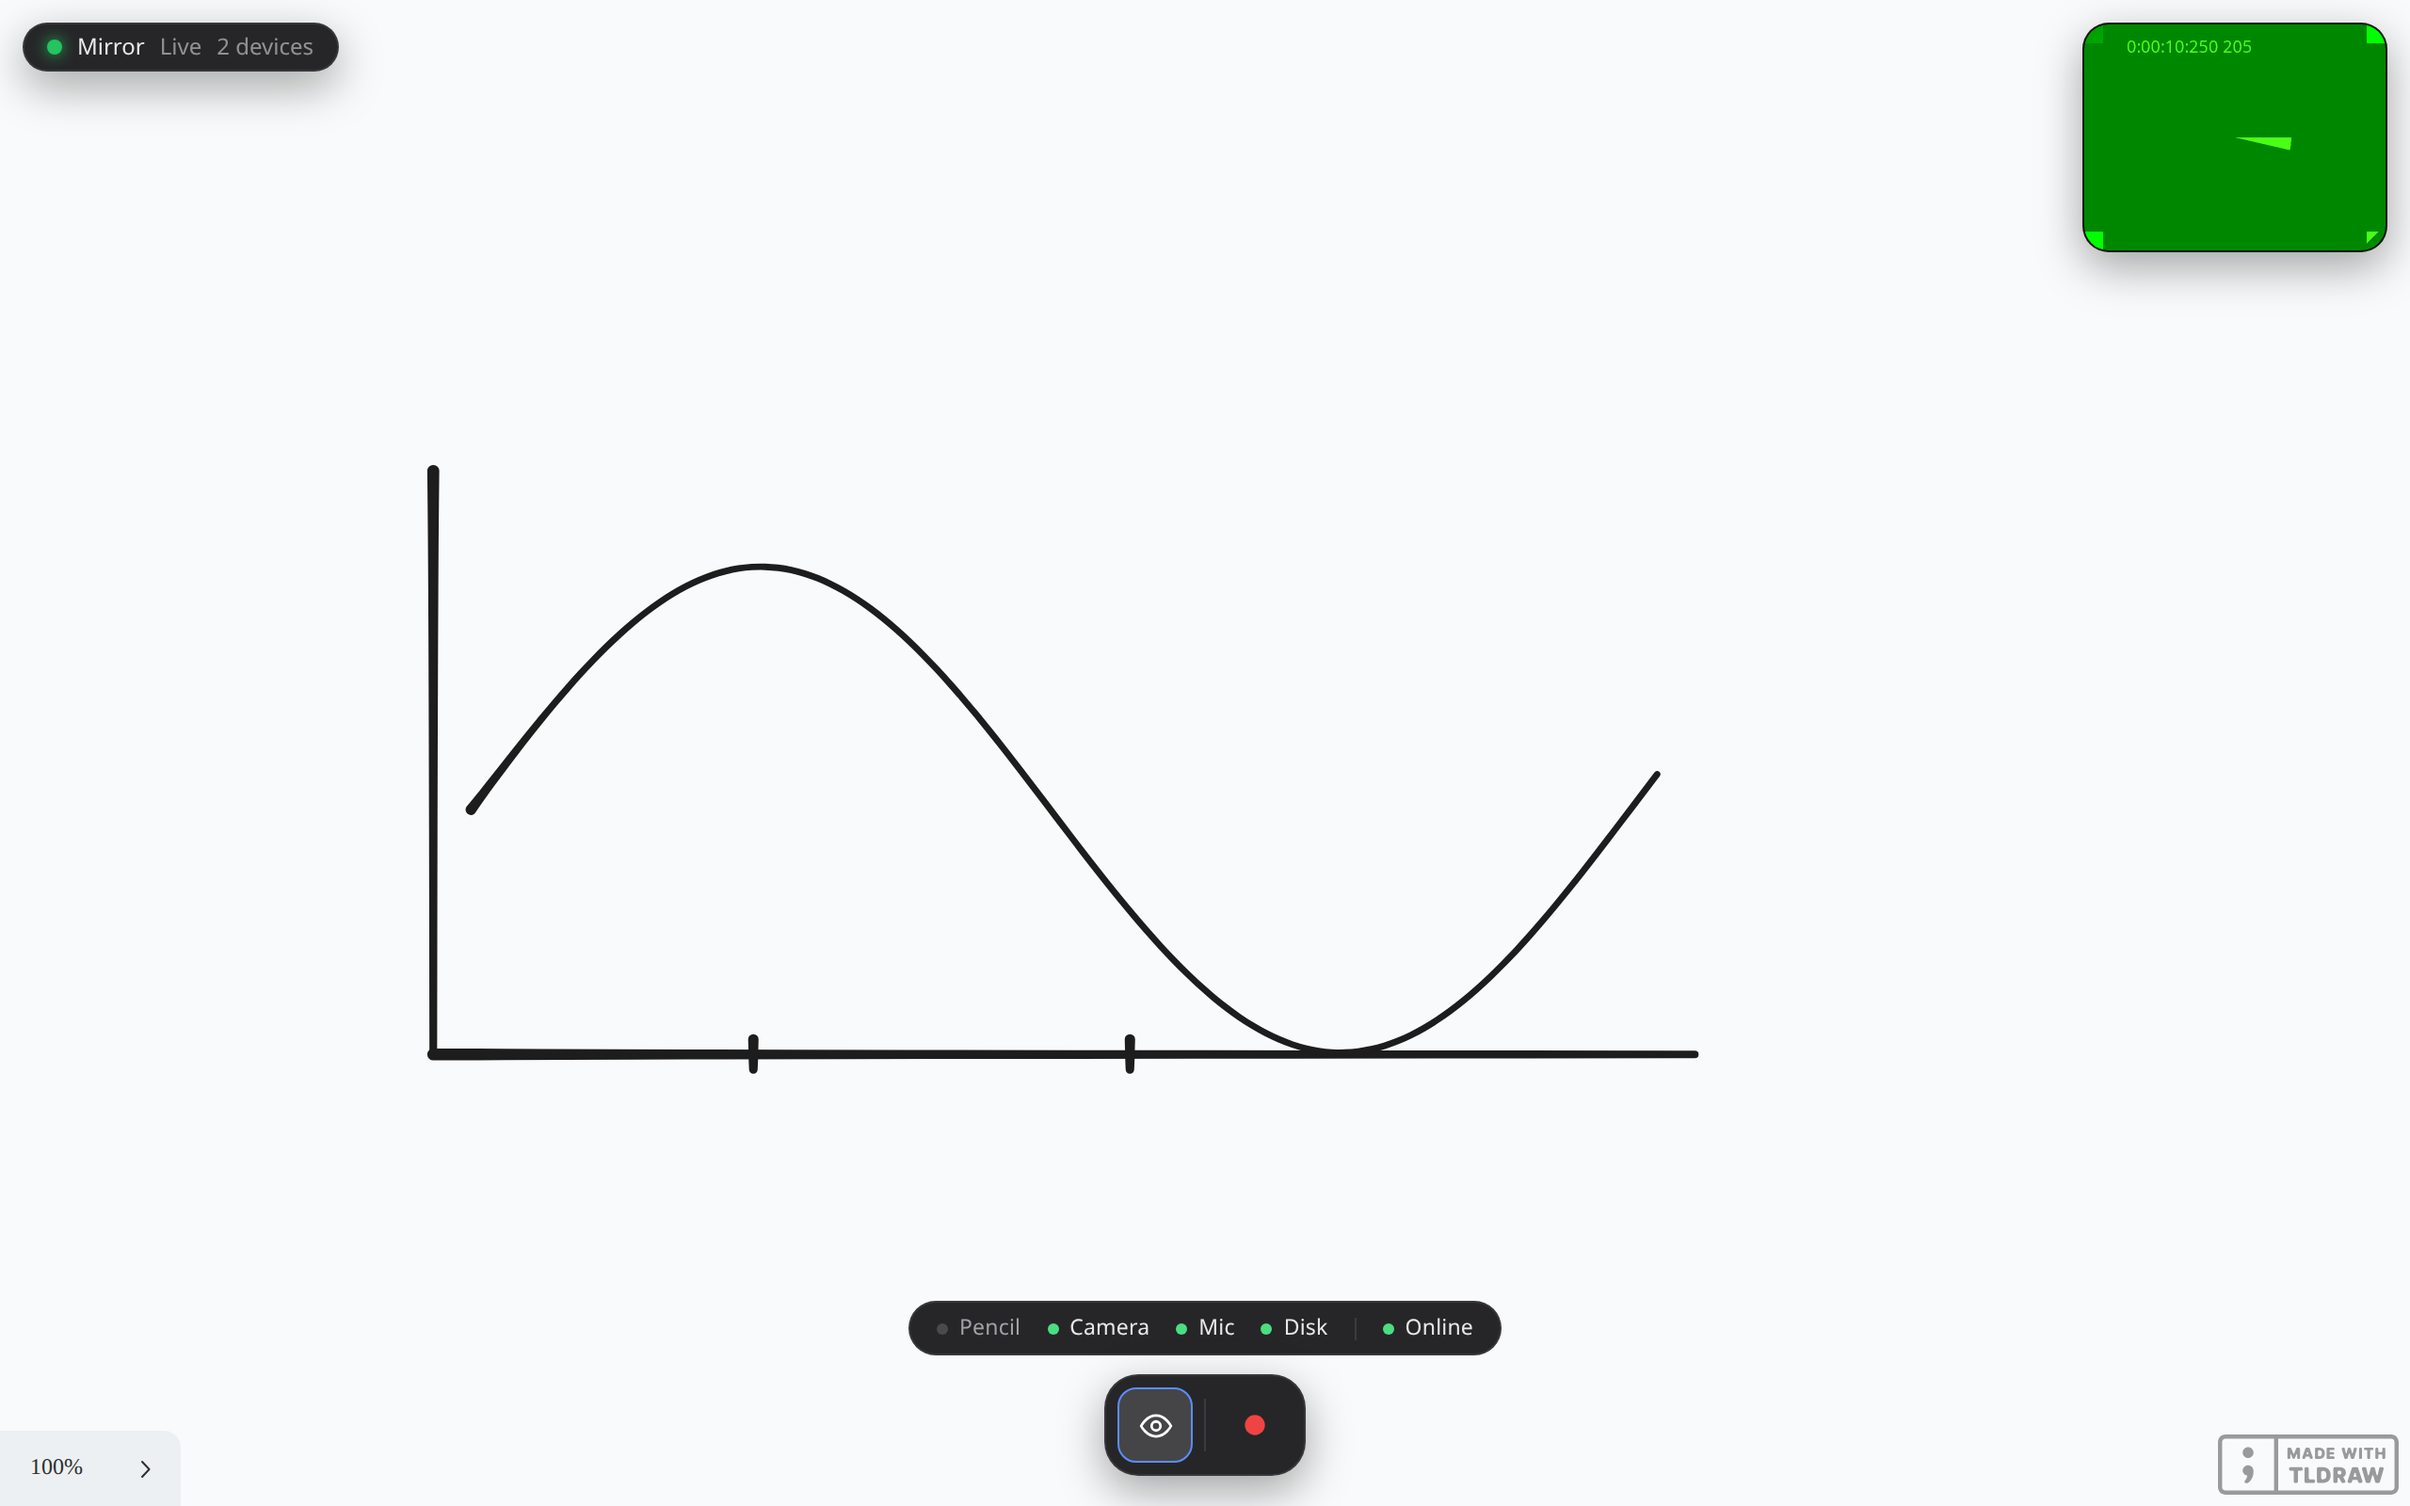
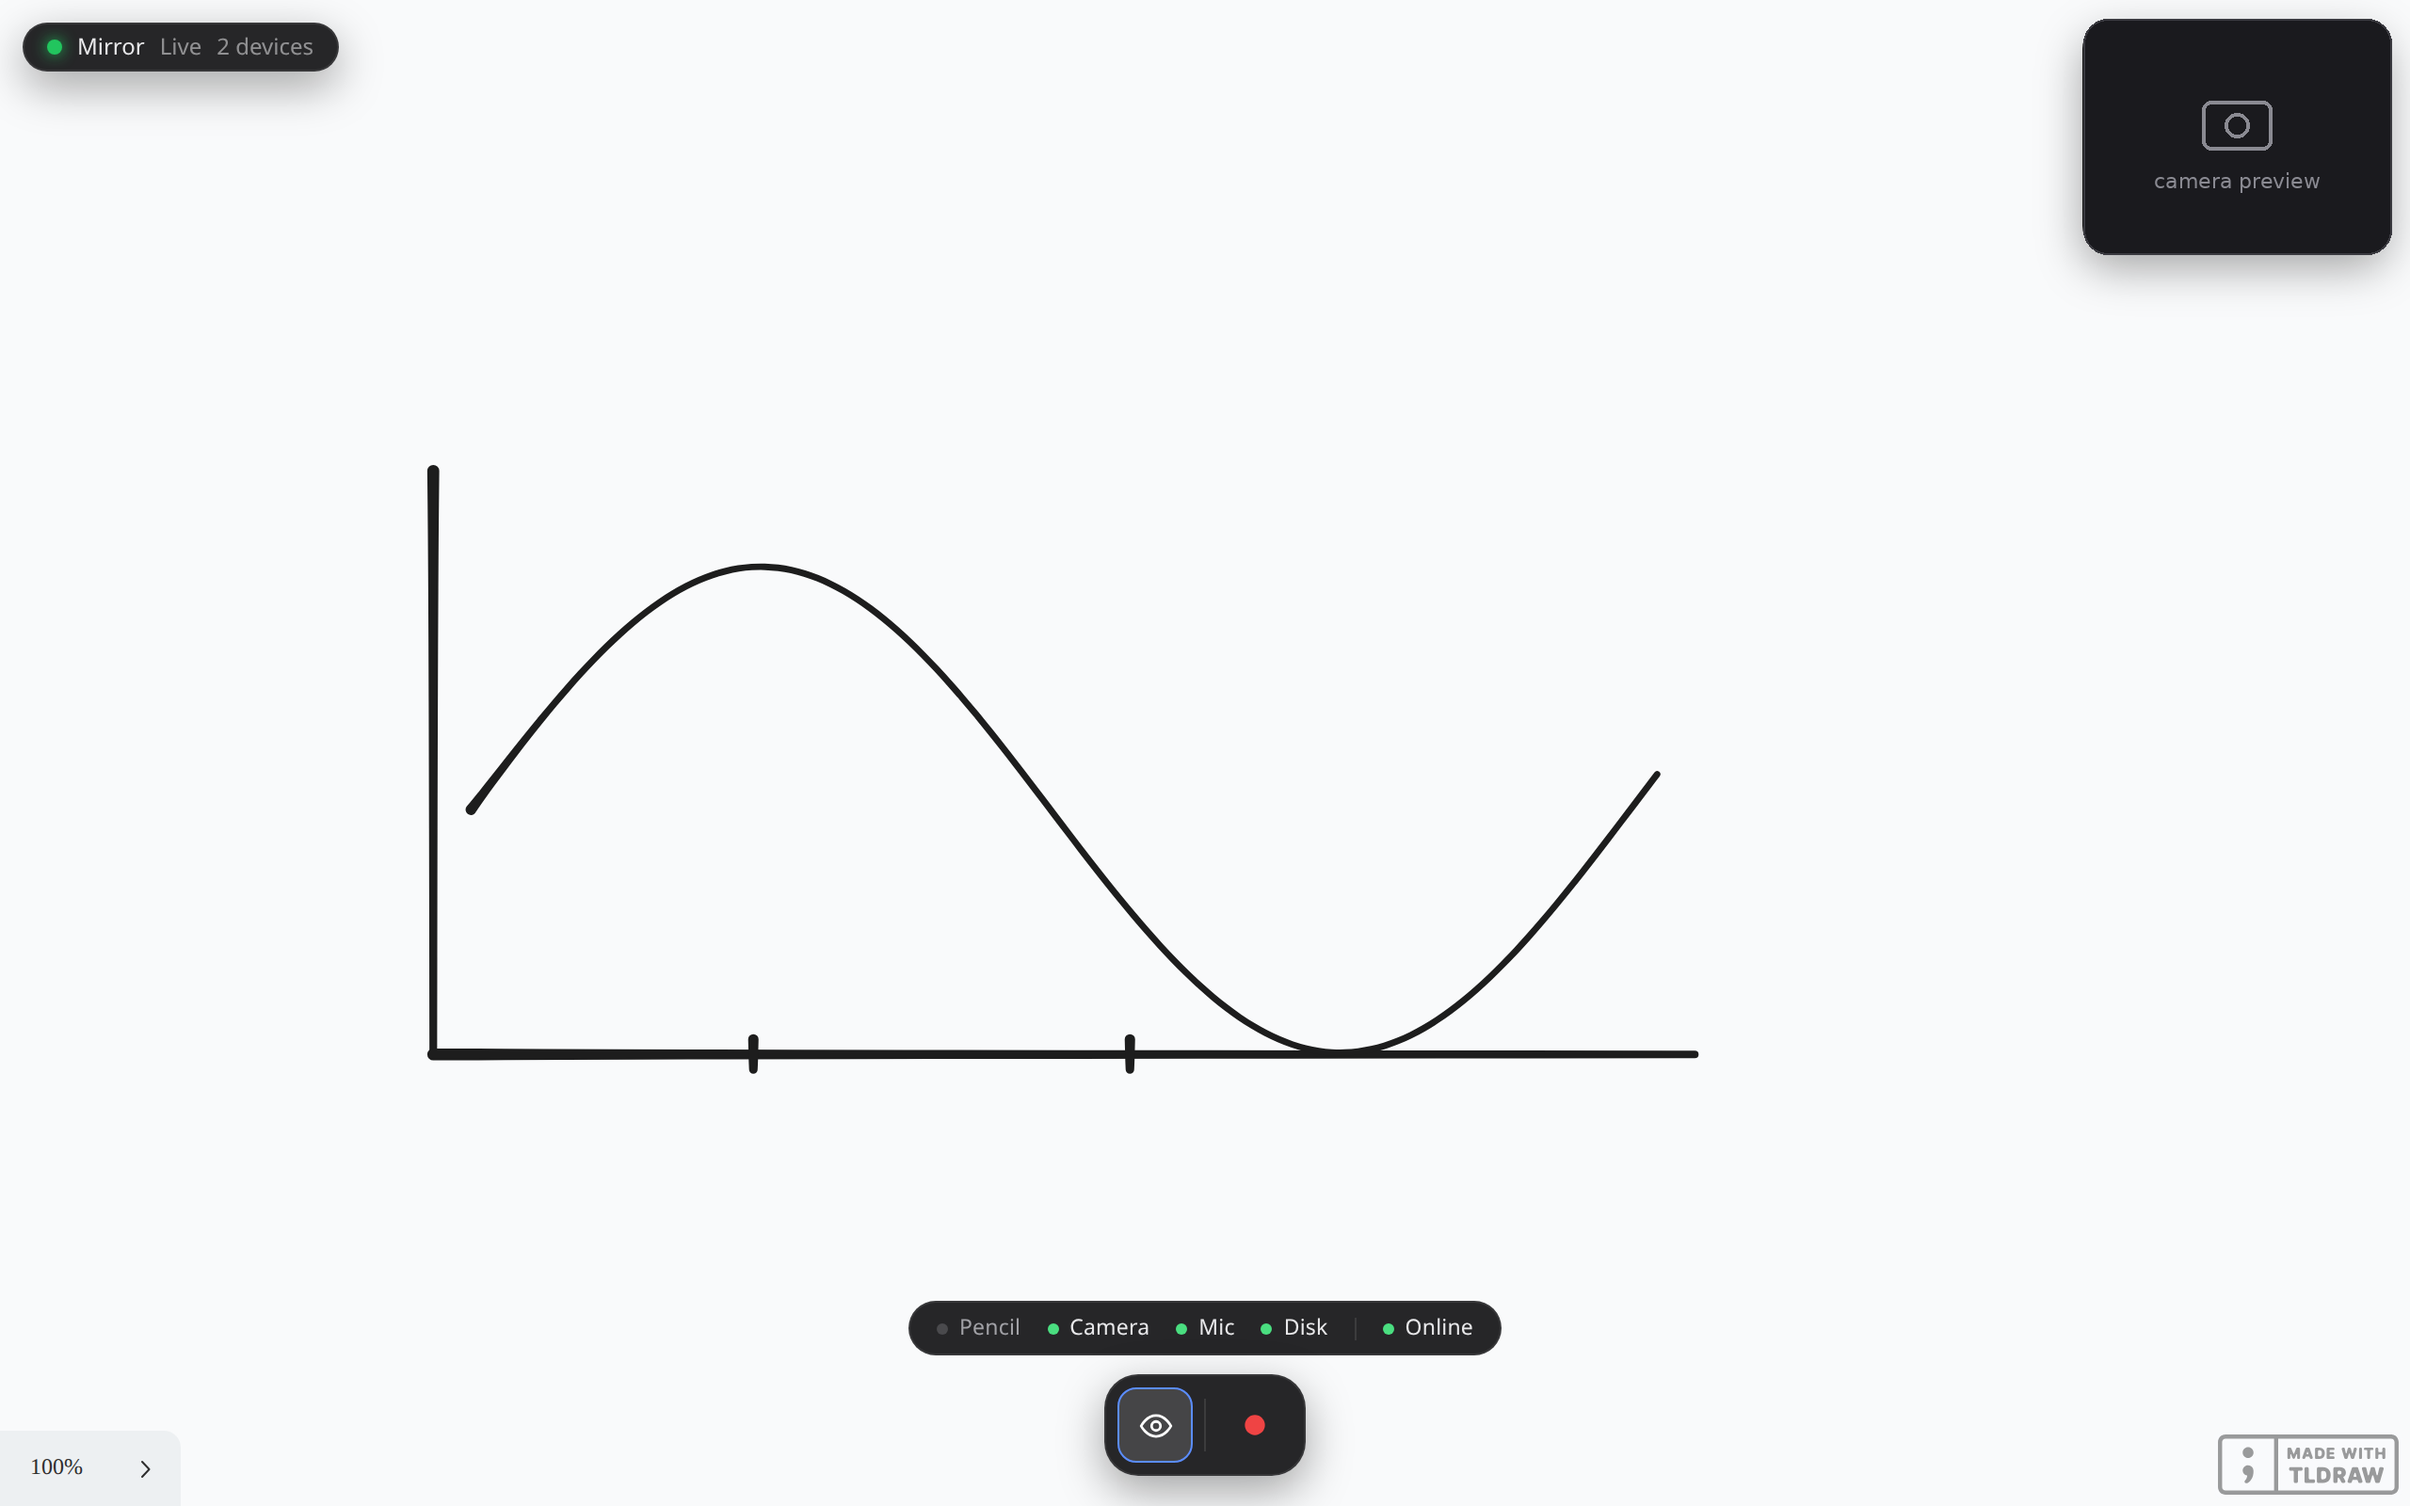
Tighten the README and stop shipping a screenshot that looks broken
The laptop screenshot was taken on a machine with no real webcam, so the
camera preview was a solid green test pattern. In a README that reads as
a rendering bug, and the caption apologising for it made it worse. The
region is painted over with a neutral placeholder in the app's own
chrome colour, and the caption says the preview is blanked, so it is not
pretending to be a webcam.

Quickstart is now the short path: install, run, pair. The one-time iPad
certificate ritual, which was the longest paragraph on the page and
applies once per device ever, moves into a collapsed <details> block.
The two trailing paragraphs in "How it works" become bullets so the
section is one scannable list instead of a list plus prose.

Changed region(s): [[0.8438, 0.0, 1.0, 0.1875]]

diff --git a/README.md b/README.md
@@ -39,9 +39,8 @@ redrawn at any size or style later without ever touching a video frame.
 <div align="center">
 <img src="docs/media/laptop-mirror.png" alt="The laptop mirror: the same board live and read-only, with the camera preview, the pre-flight row and the record button" width="760" />
 
-<sub><i>The laptop, watching the same board live while it records. The green
-rectangle top-right is the camera preview showing a test video source, not a
-real webcam.</i></sub>
+<sub><i>The laptop, watching the same board live while it records. The camera
+preview is blanked in this screenshot.</i></sub>
 </div>
 
 ## Quickstart
@@ -62,27 +61,36 @@ laptop's camera view for you.
 
 Then pair each device **once**, from the links it prints:
 
-- **iPad** — scan the QR with the Camera app. First time only, you also
-  install the local certificate: open `https://inkboard.local/inkboard-ca.crt`,
-  continue past the warning (it *is* the cert you're about to trust), install
-  the profile under **Settings → General → VPN & Device Management**, then
-  turn it on under **Settings → General → About → Certificate Trust
-  Settings**. That last toggle is separate and easy to miss. Then open
-  `https://inkboard.local` and add it to your Home Screen.
+- **iPad** — scan the QR with the Camera app, then add the page to your Home
+  Screen. The first time, you also trust the certificate once (below).
 - **Laptop** — the browser opens on its own, already on the pairing link.
 
-**Pairing is remembered.** Every session after that is just:
+**Pairing is remembered.** Every session after that is just `pnpm go`, then
+tap the Home Screen icon and start drawing.
 
-```bash
-pnpm go
-```
+<details>
+<summary><b>First time on the iPad: trusting the certificate</b></summary>
 
-…then tap the Home Screen icon on the iPad and start drawing. Use
-`pnpm go --pair` when you actually want to add or replace a device.
+<br />
 
-> If `inkboard.local` doesn't resolve, the server also serves your LAN IP
-> directly over HTTPS and prints it. Prefer the name: a hard-coded IP goes
-> stale the moment DHCP moves the machine.
+inkboard serves real HTTPS from your own machine, so the iPad has to be told
+once that your machine's certificate authority is trustworthy.
+
+1. Open `https://inkboard.local/inkboard-ca.crt` in Safari and continue past
+   the warning. It *is* the certificate you are about to trust.
+2. Install the downloaded profile under **Settings → General → VPN & Device
+   Management**.
+3. Turn it on under **Settings → General → About → Certificate Trust
+   Settings**.
+
+Step 3 is a separate toggle from step 2 and is the one people miss. Without
+it Safari still refuses the connection.
+
+If `inkboard.local` doesn't resolve, the server also serves your LAN IP over
+HTTPS and prints it. Prefer the name: a hard-coded IP goes stale the moment
+DHCP moves the machine.
+
+</details>
 
 ## How it works
 
@@ -118,13 +126,12 @@ flowchart LR
   tldraw's icons and fonts are bundled into the build rather than fetched
   from its CDN, so the app works with the internet unplugged.
 
-A status pill in the top-left of both devices says whether they are actually
-talking to each other (`Live`, `Connecting`, `Reconnecting`) and how many
-devices are connected. If a device sleeps or WiFi drops it reconnects on its
-own and is handed the current board, so nothing is lost.
-
-To put an image on the board, paste or drop it on either device. It uploads to
-the server once and appears on the other device.
+- **It tells you when it's connected.** A status pill on both devices reads
+  `Live`, `Connecting` or `Reconnecting`, and counts the devices on the board.
+  One that sleeps or loses WiFi reconnects on its own and is handed the
+  current board, so nothing is lost.
+- **Images work too.** Paste or drop one on either device. It uploads once and
+  appears on the other.
 
 Full write-up: [docs/ARCHITECTURE.md](docs/ARCHITECTURE.md) (design decisions)
 and [docs/SECURITY.md](docs/SECURITY.md) (the full threat model).
